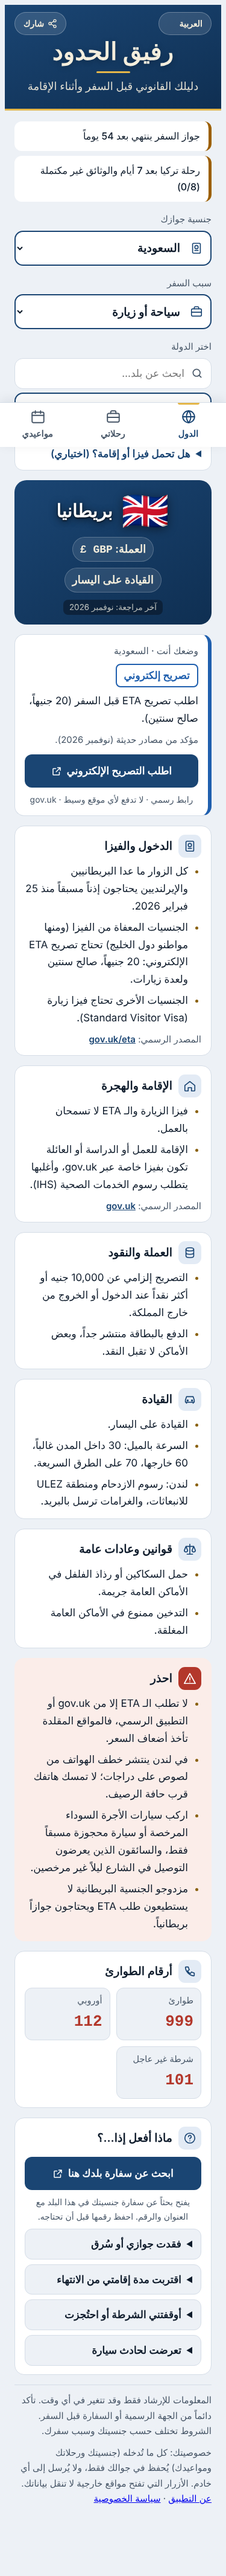
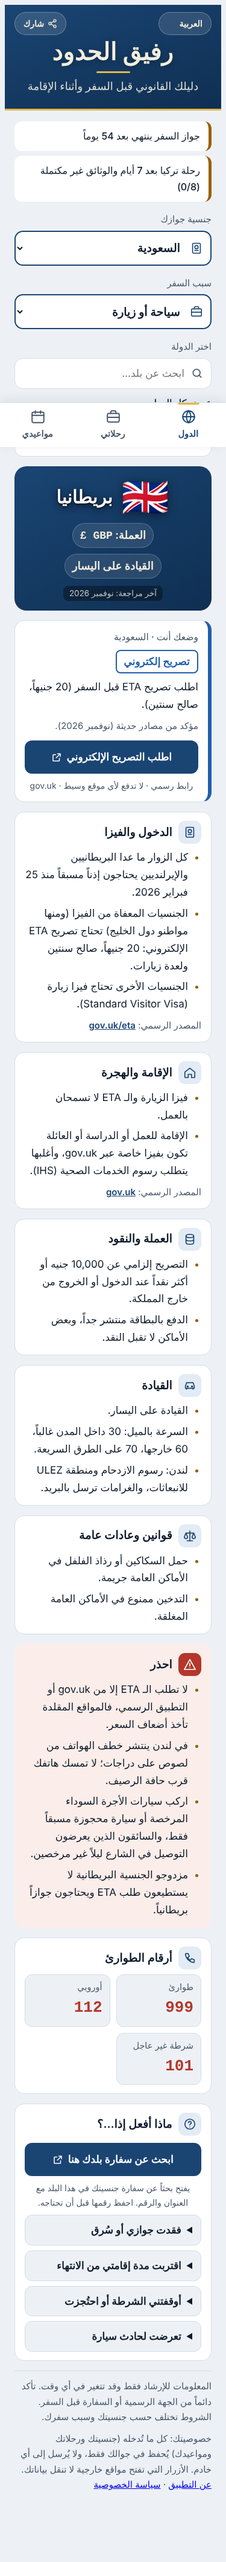
Make search the main way to pick a country; full list behind a button
Claude-Session: https://claude.ai/code/session_01ENsRVFaxvJuuLhfDjghU7F

diff --git a/index.html b/index.html
@@ -44,6 +44,9 @@ svg.i{width:22px;height:22px;flex:none;fill:none;stroke:currentColor;stroke-widt
 .csearch{position:relative}
 .csearch input{font:inherit;width:100%;min-height:50px;border-radius:14px;border:1px solid var(--line);background:var(--surface);color:var(--ink);padding:10px 14px 10px 14px;padding-inline-start:44px}
 .csearch svg{position:absolute;inset-inline-start:14px;top:50%;transform:translateY(-50%);width:20px;height:20px;fill:none;stroke:var(--muted);stroke-width:2;stroke-linecap:round;pointer-events:none}
+.allbtn{align-self:flex-start;background:none;border:0;color:var(--navy2);font-weight:600;font-size:16px;padding:4px 0;text-decoration:underline;text-underline-offset:4px}
+:root[data-theme="dark"] .allbtn{color:var(--gold)}
+@media (prefers-color-scheme: dark){:root:not([data-theme="light"]) .allbtn{color:var(--gold)}}
 .cres{display:flex;flex-wrap:wrap;gap:8px}
 .cres:empty{display:none}
 .cres button{border:1px solid var(--line);background:var(--surface);color:var(--ink);border-radius:999px;padding:7px 14px;font-size:16px;font-weight:600;display:inline-flex;gap:6px;align-items:center}
@@ -218,7 +221,7 @@ nav.tabs button[aria-selected="true"]::before{content:"";position:absolute;top:0
     <div class="picker"><label for="countrySel" id="countryL"></label>
       <div class="csearch"><svg viewBox="0 0 24 24"><circle cx="11" cy="11" r="7"/><path d="M20 20l-4-4"/></svg><input type="search" id="csearch" autocomplete="off" enterkeyhint="search"></div>
       <div class="cres" id="cres"></div>
-      <div class="selwrap"><svg class="i" viewBox="0 0 24 24"><circle cx="12" cy="12" r="9"/><path d="M3 12h18M12 3a14 14 0 0 1 0 18M12 3a14 14 0 0 0 0 18"/></svg><select id="countrySel" class="big"></select></div>
+      <button type="button" class="allbtn" id="allBtn"></button><div id="allWrap" hidden><div class="selwrap"><svg class="i" viewBox="0 0 24 24"><circle cx="12" cy="12" r="9"/><path d="M3 12h18M12 3a14 14 0 0 1 0 18M12 3a14 14 0 0 0 0 18"/></svg><select id="countrySel" class="big"></select></div></div>
     </div>
     <details class="holdsbox"><summary id="holdL"></summary>
       <div class="holds">
@@ -555,7 +558,7 @@ function render(){
  document.documentElement.lang=lang; document.documentElement.dir=lang==="ar"?"rtl":"ltr";
  $("langSel").value=lang; $("appName").textContent=t.name; $("tagline").textContent=t.tag;
  $("disclaimer").textContent=t.disc; $("privacy").innerHTML=esc(L(PRIV))+` <a href="about.html">${esc(L(ABOUTL))}</a> · <a href="privacy.html">${esc(L(PRIVL))}</a>`;
- $("shareL").textContent=L(SHAREL); $("csearch").placeholder=t.search;
+ $("shareL").textContent=L(SHAREL); allLabel(); $("csearch").placeholder=t.search;
  {const B=BK[lang]; $("bk_t").textContent=B.t; $("bk_i").textContent=B.i; $("bk_ex").textContent=B.ex; $("bk_im").textContent=B.im; $("bk_msg").textContent="";}
  $("natL").textContent=t.nat; $("purL").textContent=t.purpose; $("holdL").textContent=t.holds;
  $("h_visaL").textContent=t.hVisa; $("h_wresL").textContent=t.hWres; $("h_gccL").textContent=t.hGcc;
@@ -578,6 +581,8 @@ $("countrySel").onchange=e=>{sel=e.target.value;store("ub_sel",sel);guide()};
 $("csearch").oninput=searchView;
 $("cres").onclick=e=>{const b=e.target.closest("[data-cid]");if(!b)return;sel=b.dataset.cid;store("ub_sel",sel);$("csearch").value="";$("cres").innerHTML="";stamps();guide();try{document.querySelector(".hero").scrollIntoView({behavior:"smooth",block:"start"})}catch(_){}};
 $("shareBtn").onclick=shareApp;
+$("allBtn").onclick=()=>{$("allWrap").hidden=!$("allWrap").hidden;allLabel()};
+$("countrySel").addEventListener("change",()=>{$("allWrap").hidden=true;allLabel()});
 $("nat").onchange=e=>{nat=e.target.value;profChanged()};
 $("purpose").onchange=e=>{pur=e.target.value;profChanged()};
 [["h_visa","visa"],["h_wres","wres"],["h_gcc","gcc"]].forEach(([id,k])=>$(id).onchange=e=>{H[k]=e.target.checked;profChanged()});
@@ -596,6 +601,8 @@ const stayChg=()=>{STAY={c:$("st_c").value,s:$("st_s").value,x:$("st_x").value};
 ["st_c","st_s","st_x"].forEach(id=>$(id).onchange=stayChg);
 $("stayOut").onclick=e=>{if(e.target.id==="st_clear"){STAY={c:$("st_c").value,s:"",x:""};$("st_s").value="";$("st_x").value="";store("ub_stay",STAY);stayView();alertsView()}};
 /* ---------- Privacy, backup, offline ---------- */
+const ALLL=q("عرض كل الدول","Show all countries","Voir tous les pays","Alle Länder anzeigen"), HIDEL=q("إخفاء القائمة","Hide the list","Masquer la liste","Liste ausblenden");
+const allLabel=()=>{$("allBtn").textContent=L($("allWrap").hidden?ALLL:HIDEL)};
 const ABOUTL=q("عن التطبيق","About","À propos","Über die App");
 const SHAREL=q("شارك","Share","Partager","Teilen");
 const SHARET=q("رفيق الحدود: دليلك القانوني للسفر والإقامة في 38 دولة بأربع لغات","Border Companion: your legal guide to travel and residence in 38 countries, in 4 languages","Border Companion : votre guide juridique du voyage et du séjour dans 38 pays, en 4 langues","Border Companion: Ihr Rechtsratgeber für Reise und Aufenthalt in 38 Ländern, in 4 Sprachen");

diff --git a/sw.js b/sw.js
@@ -1,5 +1,5 @@
 /* Border Companion – offline support. Bump VERSION whenever index.html changes. */
-const VERSION = "bc-2026-11-08j";
+const VERSION = "bc-2026-11-08k";
 const SHELL = ["./", "./index.html", "./data.js", "./about.html", "./privacy.html", "./manifest.json", "./icons/icon-180.png", "./icons/icon-192.png", "./icons/icon-512.png"];
 self.addEventListener("install", e => {
   e.waitUntil(caches.open(VERSION).then(c => Promise.all(SHELL.map(u => c.add(u).catch(() => null)))).then(() => self.skipWaiting()));
